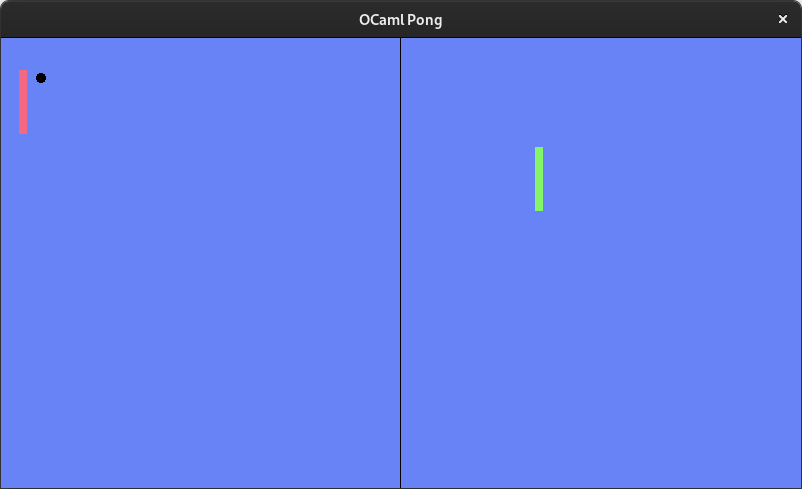
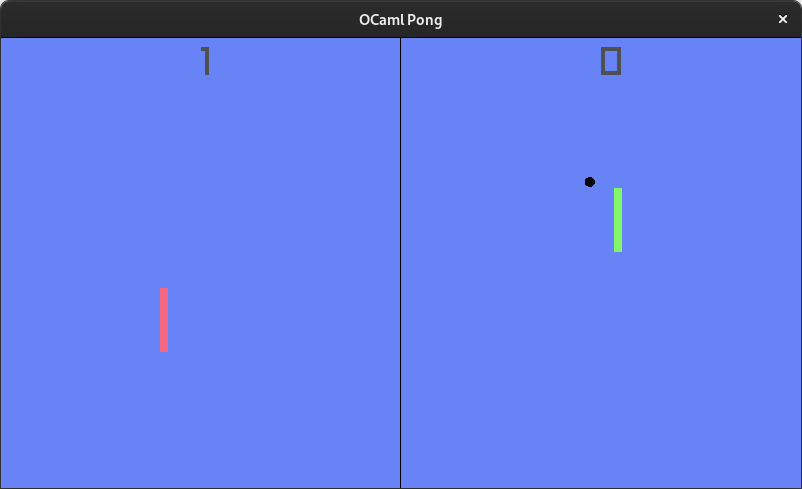
update readme and screenshot

diff --git a/README.md b/README.md
@@ -18,9 +18,11 @@ Try to write a "pong game" in OCaml using Raylib...
 - [x] drawing the players, the ball and the let
 - [x] managing players movements
 - [x] managing ball movement
-- [ ] reset the position when one player miss the ball
-- [ ] counting score
-- [ ] improve the ball movement
+- [x] reset the position when one player miss the ball
+- [x] counting score
+- [ ] be more acurate when ball hitting players
+- [ ] improve the ball movement (manage differant angle, ...)
+- [ ] add effects on the ball (slice, ...)
 
 # Screenshots
 
